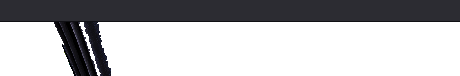
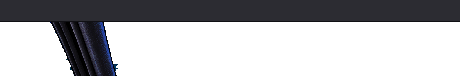
v0.75.3: coluna da porta da Patrulha 9C inteira (os brilhos dela viravam vidro)
Claude-Session: https://claude.ai/code/session_01MLD9VR7gkmY4w6a9beZcp6

Changed region(s): [[0.1217, 0.2895, 0.2739, 1.0], [0.0913, 0.2895, 0.1217, 0.3947], [0.1217, 0.7368, 0.1522, 0.7895]]

diff --git a/tools/ref/patrol_cockpit2.py b/tools/ref/patrol_cockpit2.py
@@ -35,6 +35,7 @@ LINER = 30
 LCD = (797, 338, 912, 412)
 LCD_BG = (8, 22, 26)
 GAUGES = [(745, 365), (745, 417), (957, 365), (957, 417)]
+PILLAR = [(184, 0), (388, 0), (440, 140), (500, 290), (520, 302), (330, 302), (300, 250), (240, 120)]   # coluna inteira (os brilhos dela não são vidro)
 TXT = [(860, 580, 990, 604), (1335, 482, 1500, 500)]   # CHEVROLET da almofada, CAPRICE CLASSIC do rádio
 
 
@@ -93,6 +94,21 @@ def main():
     gl &= poly((H, W), WIND) | poly((H, W), WIN)
     x0, y0, x1, y1 = IMIR
     gl[y0:y1, x0:x1] = True
+    # coluna: em cada linha, do primeiro contorno preto pela esquerda ao último pela direita, dentro do polígono
+    pm = poly((H, W), PILLAR)
+    L, R = np.full(300, np.nan), np.full(300, np.nan)
+    for y in range(0, 300):
+        xs = np.nonzero(pm[y] & (lum[y] < 40))[0]
+        if len(xs) > 1:
+            L[y], R[y] = xs.min(), xs.max()
+    med = lambda v, y: np.nanmedian(v[max(0, y - 12):y + 13])  # noqa: E731  (sombras escuras das árvores: fora pela mediana)
+    for y in range(0, 300):
+        l, r = med(L, y), med(R, y)
+        if not np.isnan(l):
+            gl[y, int(l):int(r) + 1] = False
+    leaf = (hsv[..., 0] > 25) & (hsv[..., 0] < 95) & (hsv[..., 1] > 90) & (hsv[..., 2] > 40)
+    leaf = cv2.dilate(leaf.astype(np.uint8), np.ones((3, 3), np.uint8)) > 0
+    gl[:300, 150:540] |= leaf[:300, 150:540]   # folhas grudadas na beira da coluna
     gl[:LINER + 8, 1330:1390] = True
     # limpadores deitados na beira do painel (escuros acima da linha do painel): vidro
     gl[(yy < 252) & (xx > 1000) & poly((H, W), WIND)] = True
